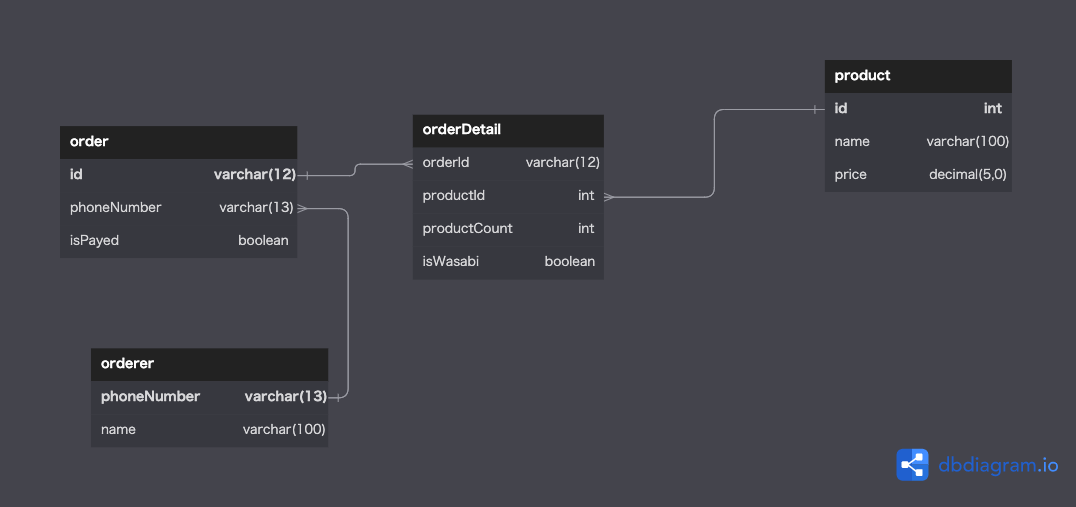
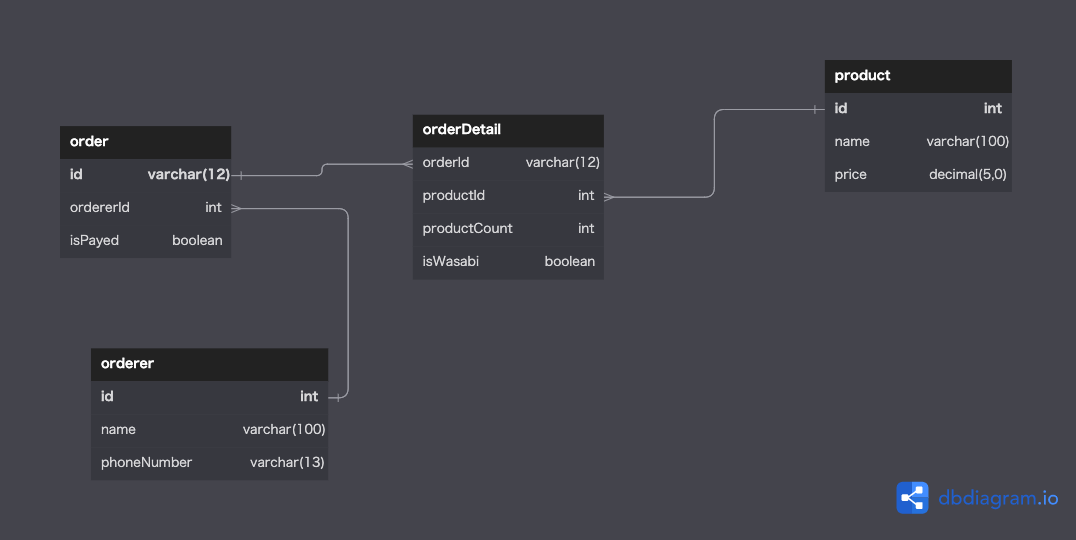
レビュー指摘対応　注文者テーブルに注文者IDを設定

diff --git a/DB/modeling001/ans01_sushi_order.md b/DB/modeling001/ans01_sushi_order.md
@@ -20,5 +20,5 @@ orderDetail : product
 0以上 : 1
 
 ## データイメージ
-![データイメージ](ans01/ans01_snapshot006.png)
+![データイメージ](ans01/ans01_snapshot007.png)
 
